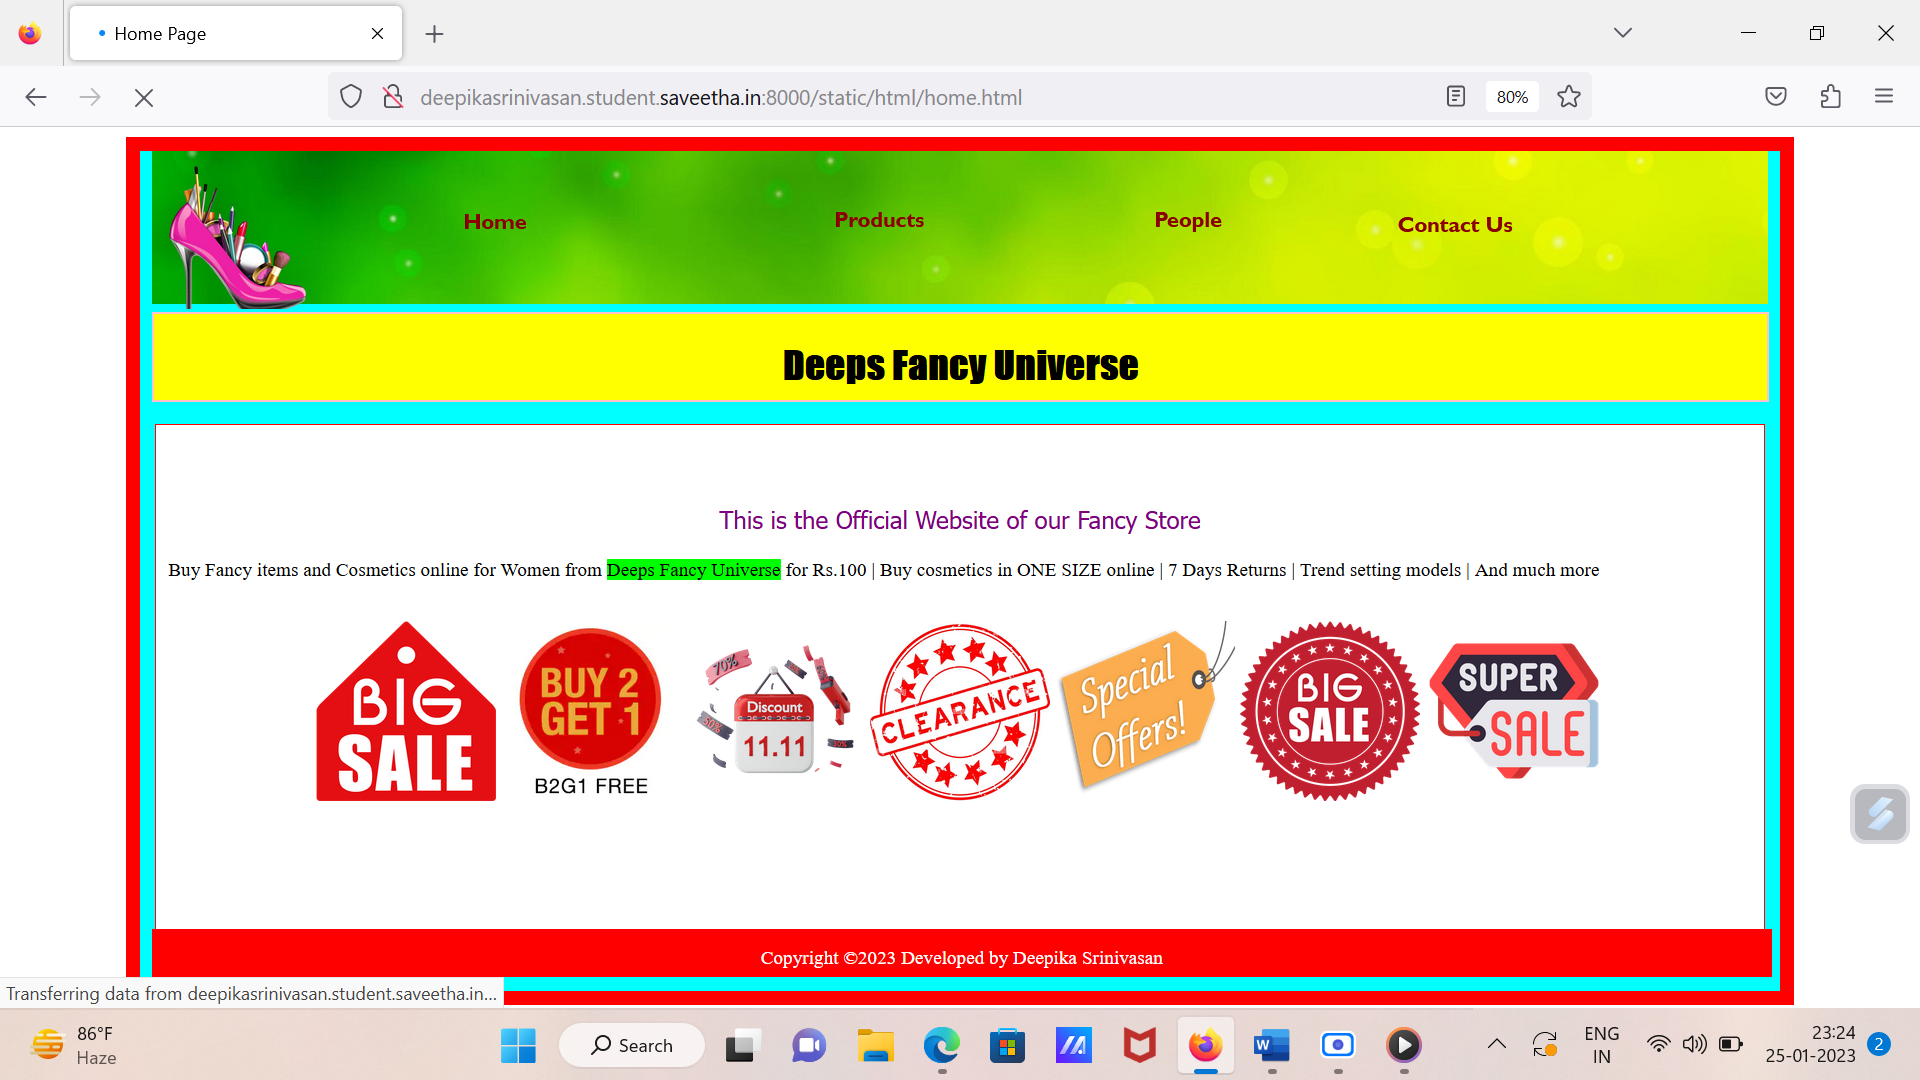
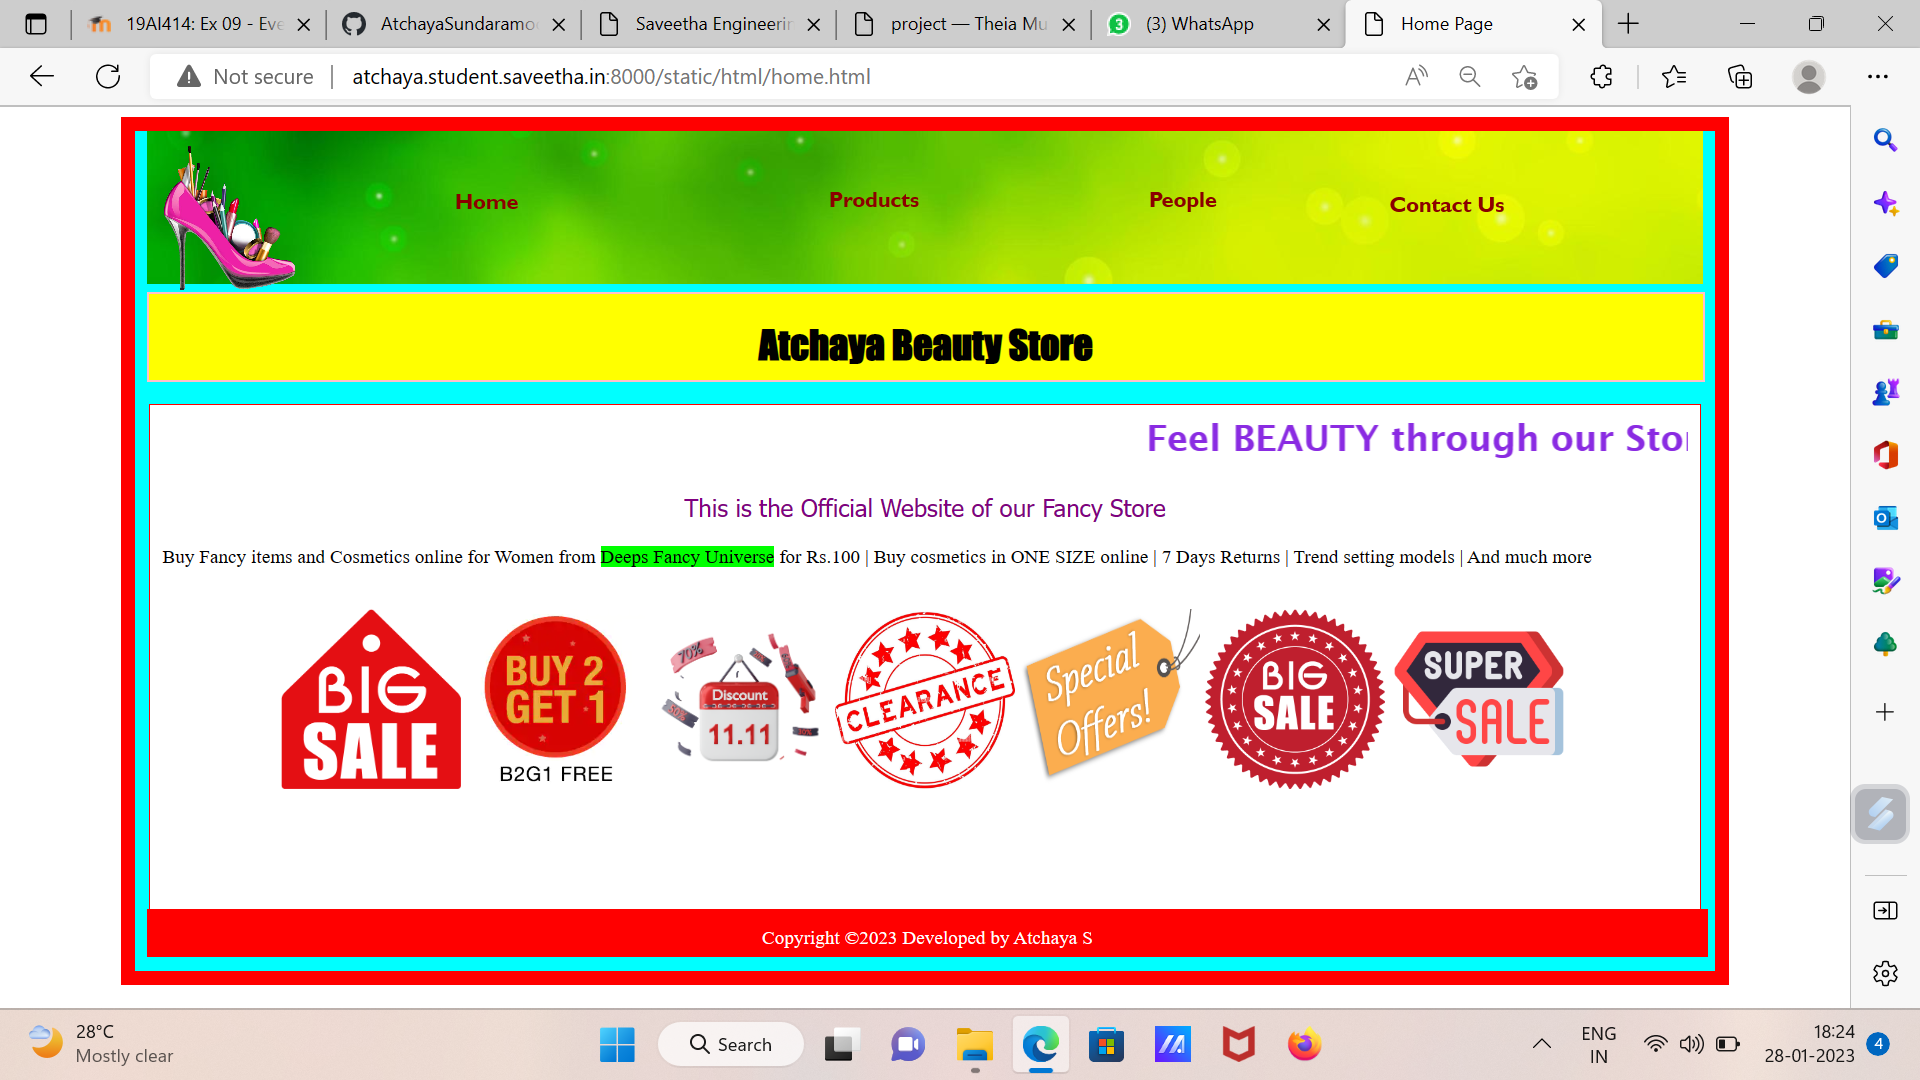
Success

diff --git a/myweb/static/html/contact.html b/myweb/static/html/contact.html
@@ -46,20 +46,20 @@
                     </div>
                     <b><h2>Contact Information:</h2></b>
                     <p><b>&emsp;&ensp;Address:</b>
-                        Guduvancherry, Chennai, TamilNadu, India.
+                        Redhills, Chennai, TamilNadu, India.
                     </p>
                     <ul>
                         <li><b>Landline:</b> 12345678</li>
                         <li><b>Mobile</b>: 90 80 70 2009</li>
                         <li><b>Facebook</b>: fb/deepsfancy</li>
-                        <li><b>Email Id:</b>deeps@fancyuniv.com</li>
+                        <li><b>Email Id:</b>atchu@beautystore.com</li>
                     </ul>
                     <div style="text-align: center;color:violet;font-size:20px;"><b>Use our services and Beautify Yourself!</b></div>
 
                 </div>
                 <div class="footer">
                 <footer style="color:white">
-                Copyright &copy;2023 Developed by Deepika Srinivasan</footer></div>
+                Copyright &copy;2023 Developed by Atchaya S</footer></div>
             </div>
         </div>
     </body>

diff --git a/myweb/static/html/home.html b/myweb/static/html/home.html
@@ -40,7 +40,7 @@
                     </div>
                 </header>
                 <div class="title">
-                    <h1>Deeps Fancy Universe</h1>
+                    <h1>Atchaya Beauty Store</h1>
                 </div><br>
                 <div class="content">
                     <div class="text">
@@ -62,7 +62,7 @@
                 </div>
                 <div class="footer">
                 <footer style="color:white">
-                Copyright &copy;2023 Developed by Deepika Srinivasan</footer></div>
+                Copyright &copy;2023 Developed by Atchaya S</footer></div>
             </div>
         </div>
     </body>

diff --git a/myweb/static/html/people.html b/myweb/static/html/people.html
@@ -34,7 +34,7 @@
             margin-right:auto;
         }
         .ceoph{
-            background-image: url(/static/images/P1.jpg);
+            background-image: url(/static/images/P6.jpg);
             background-size: 250px;
             background-position-x: center;
             background-repeat: no-repeat;
